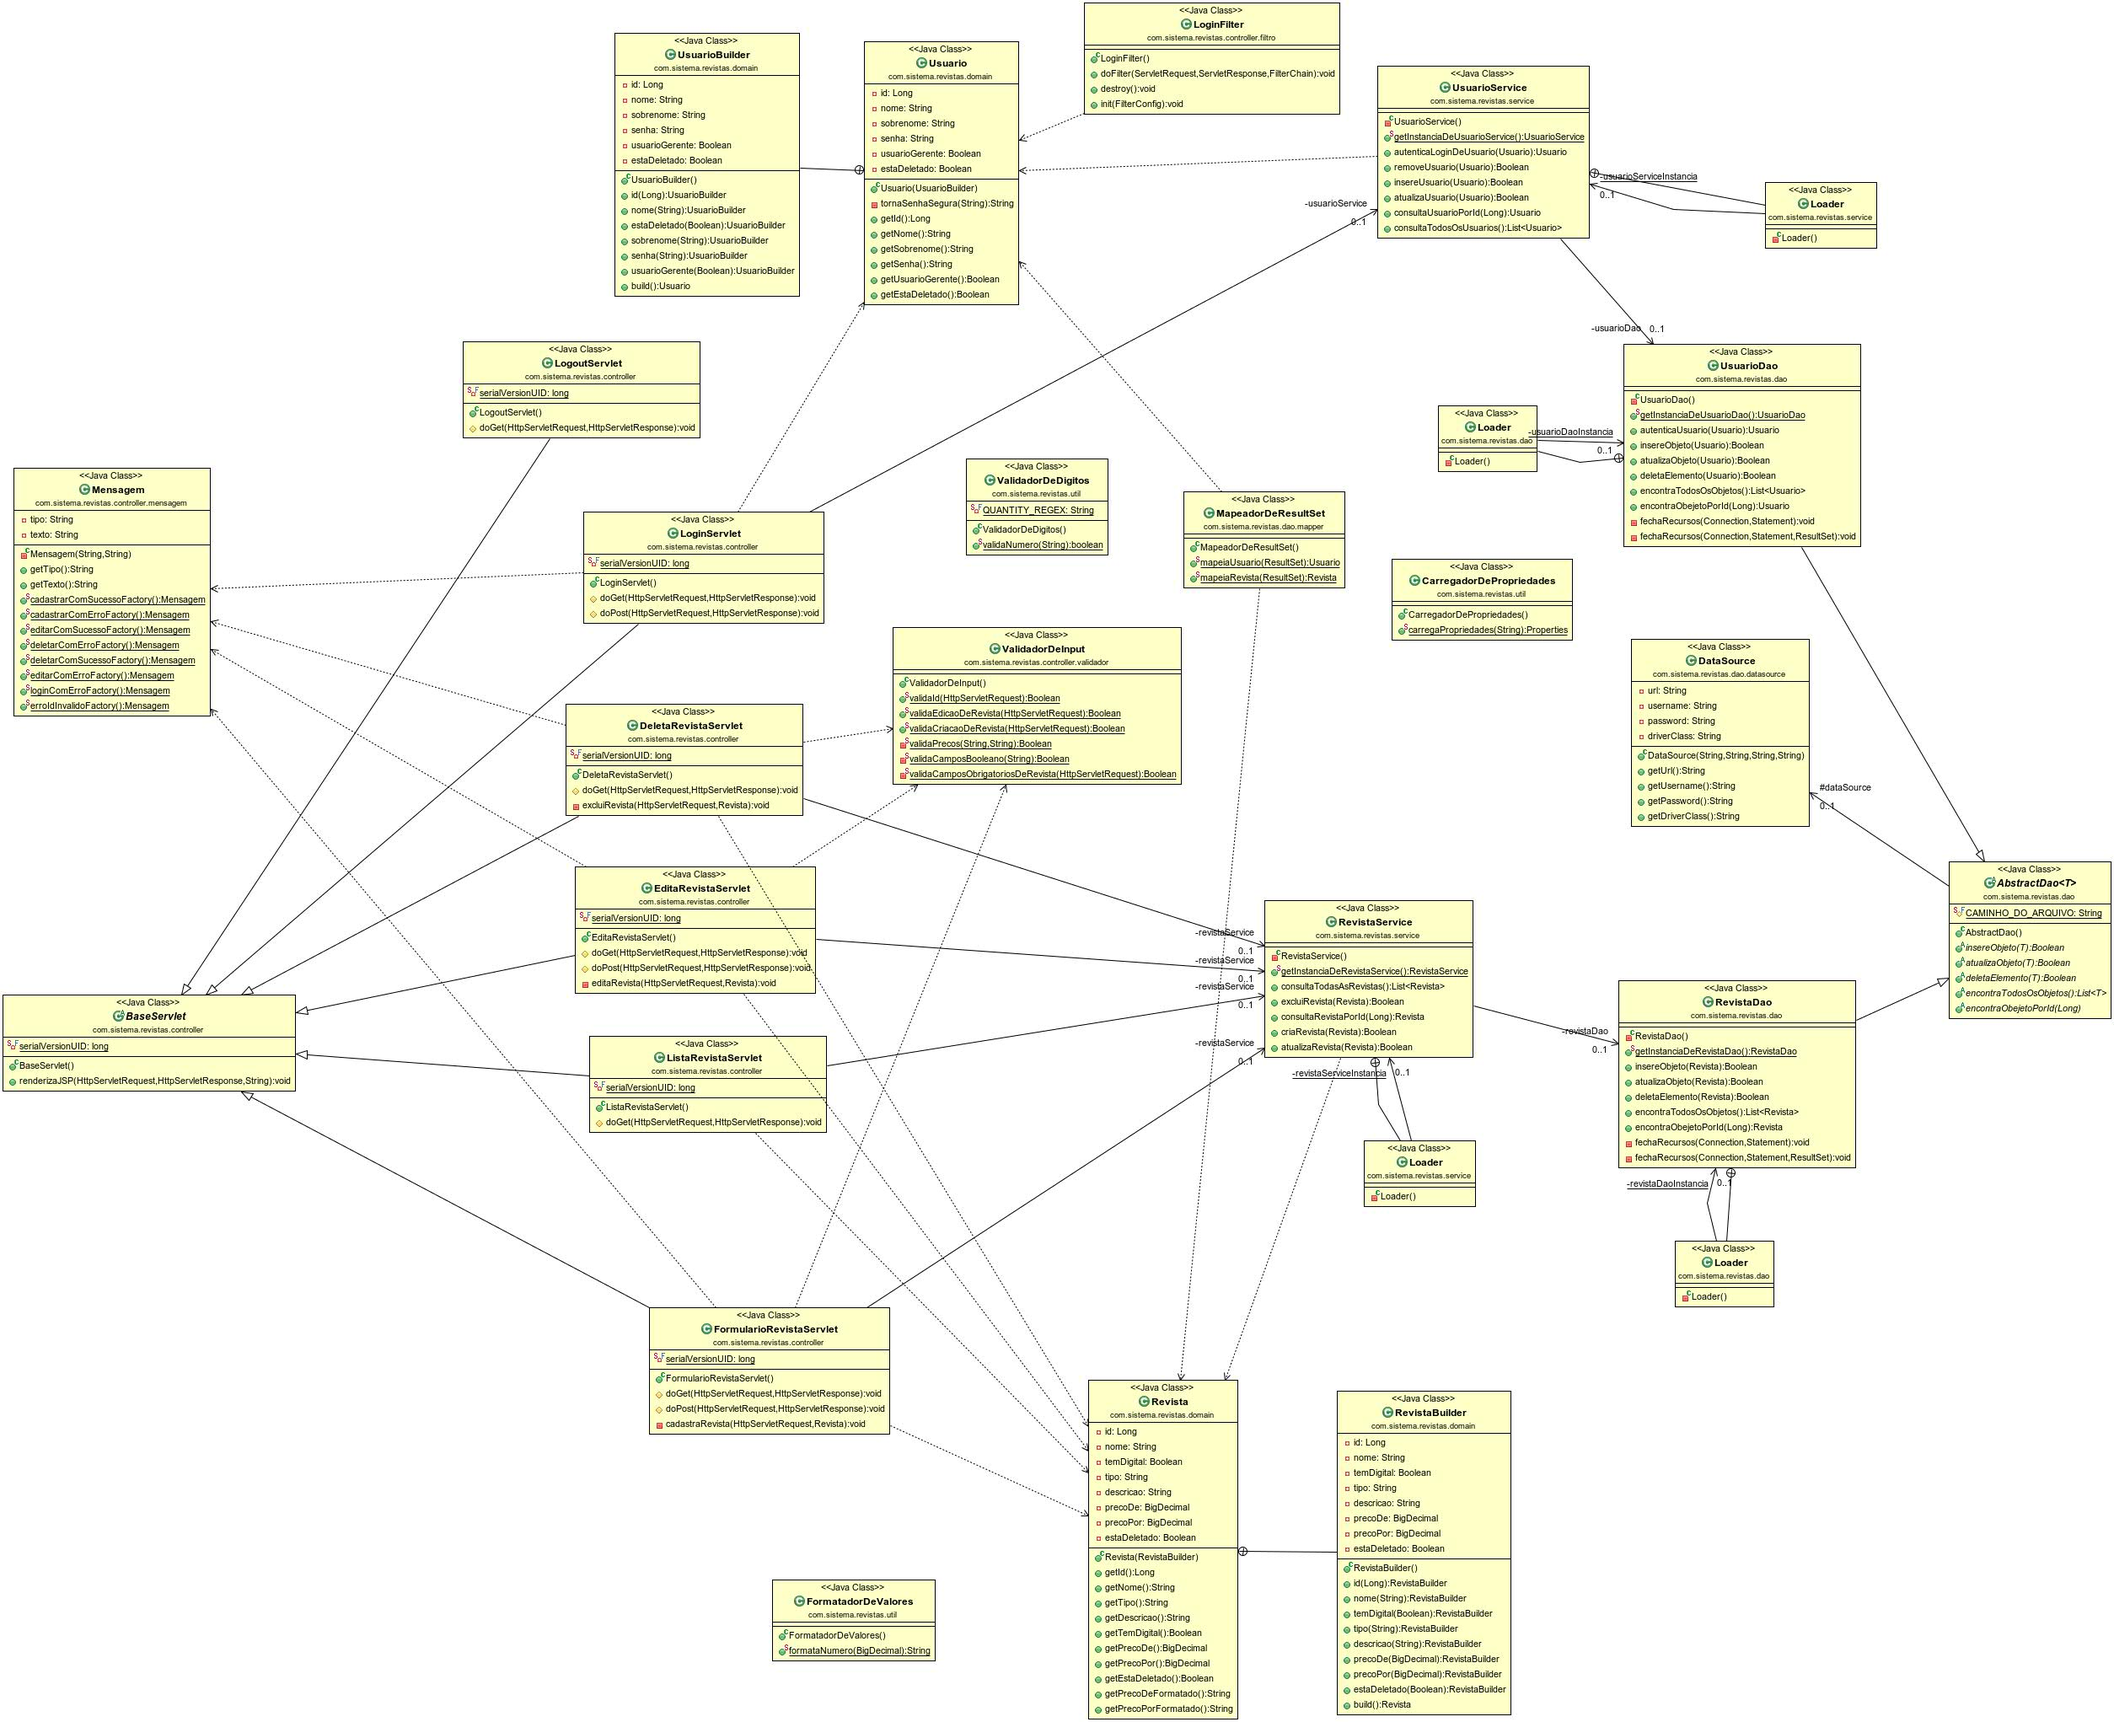
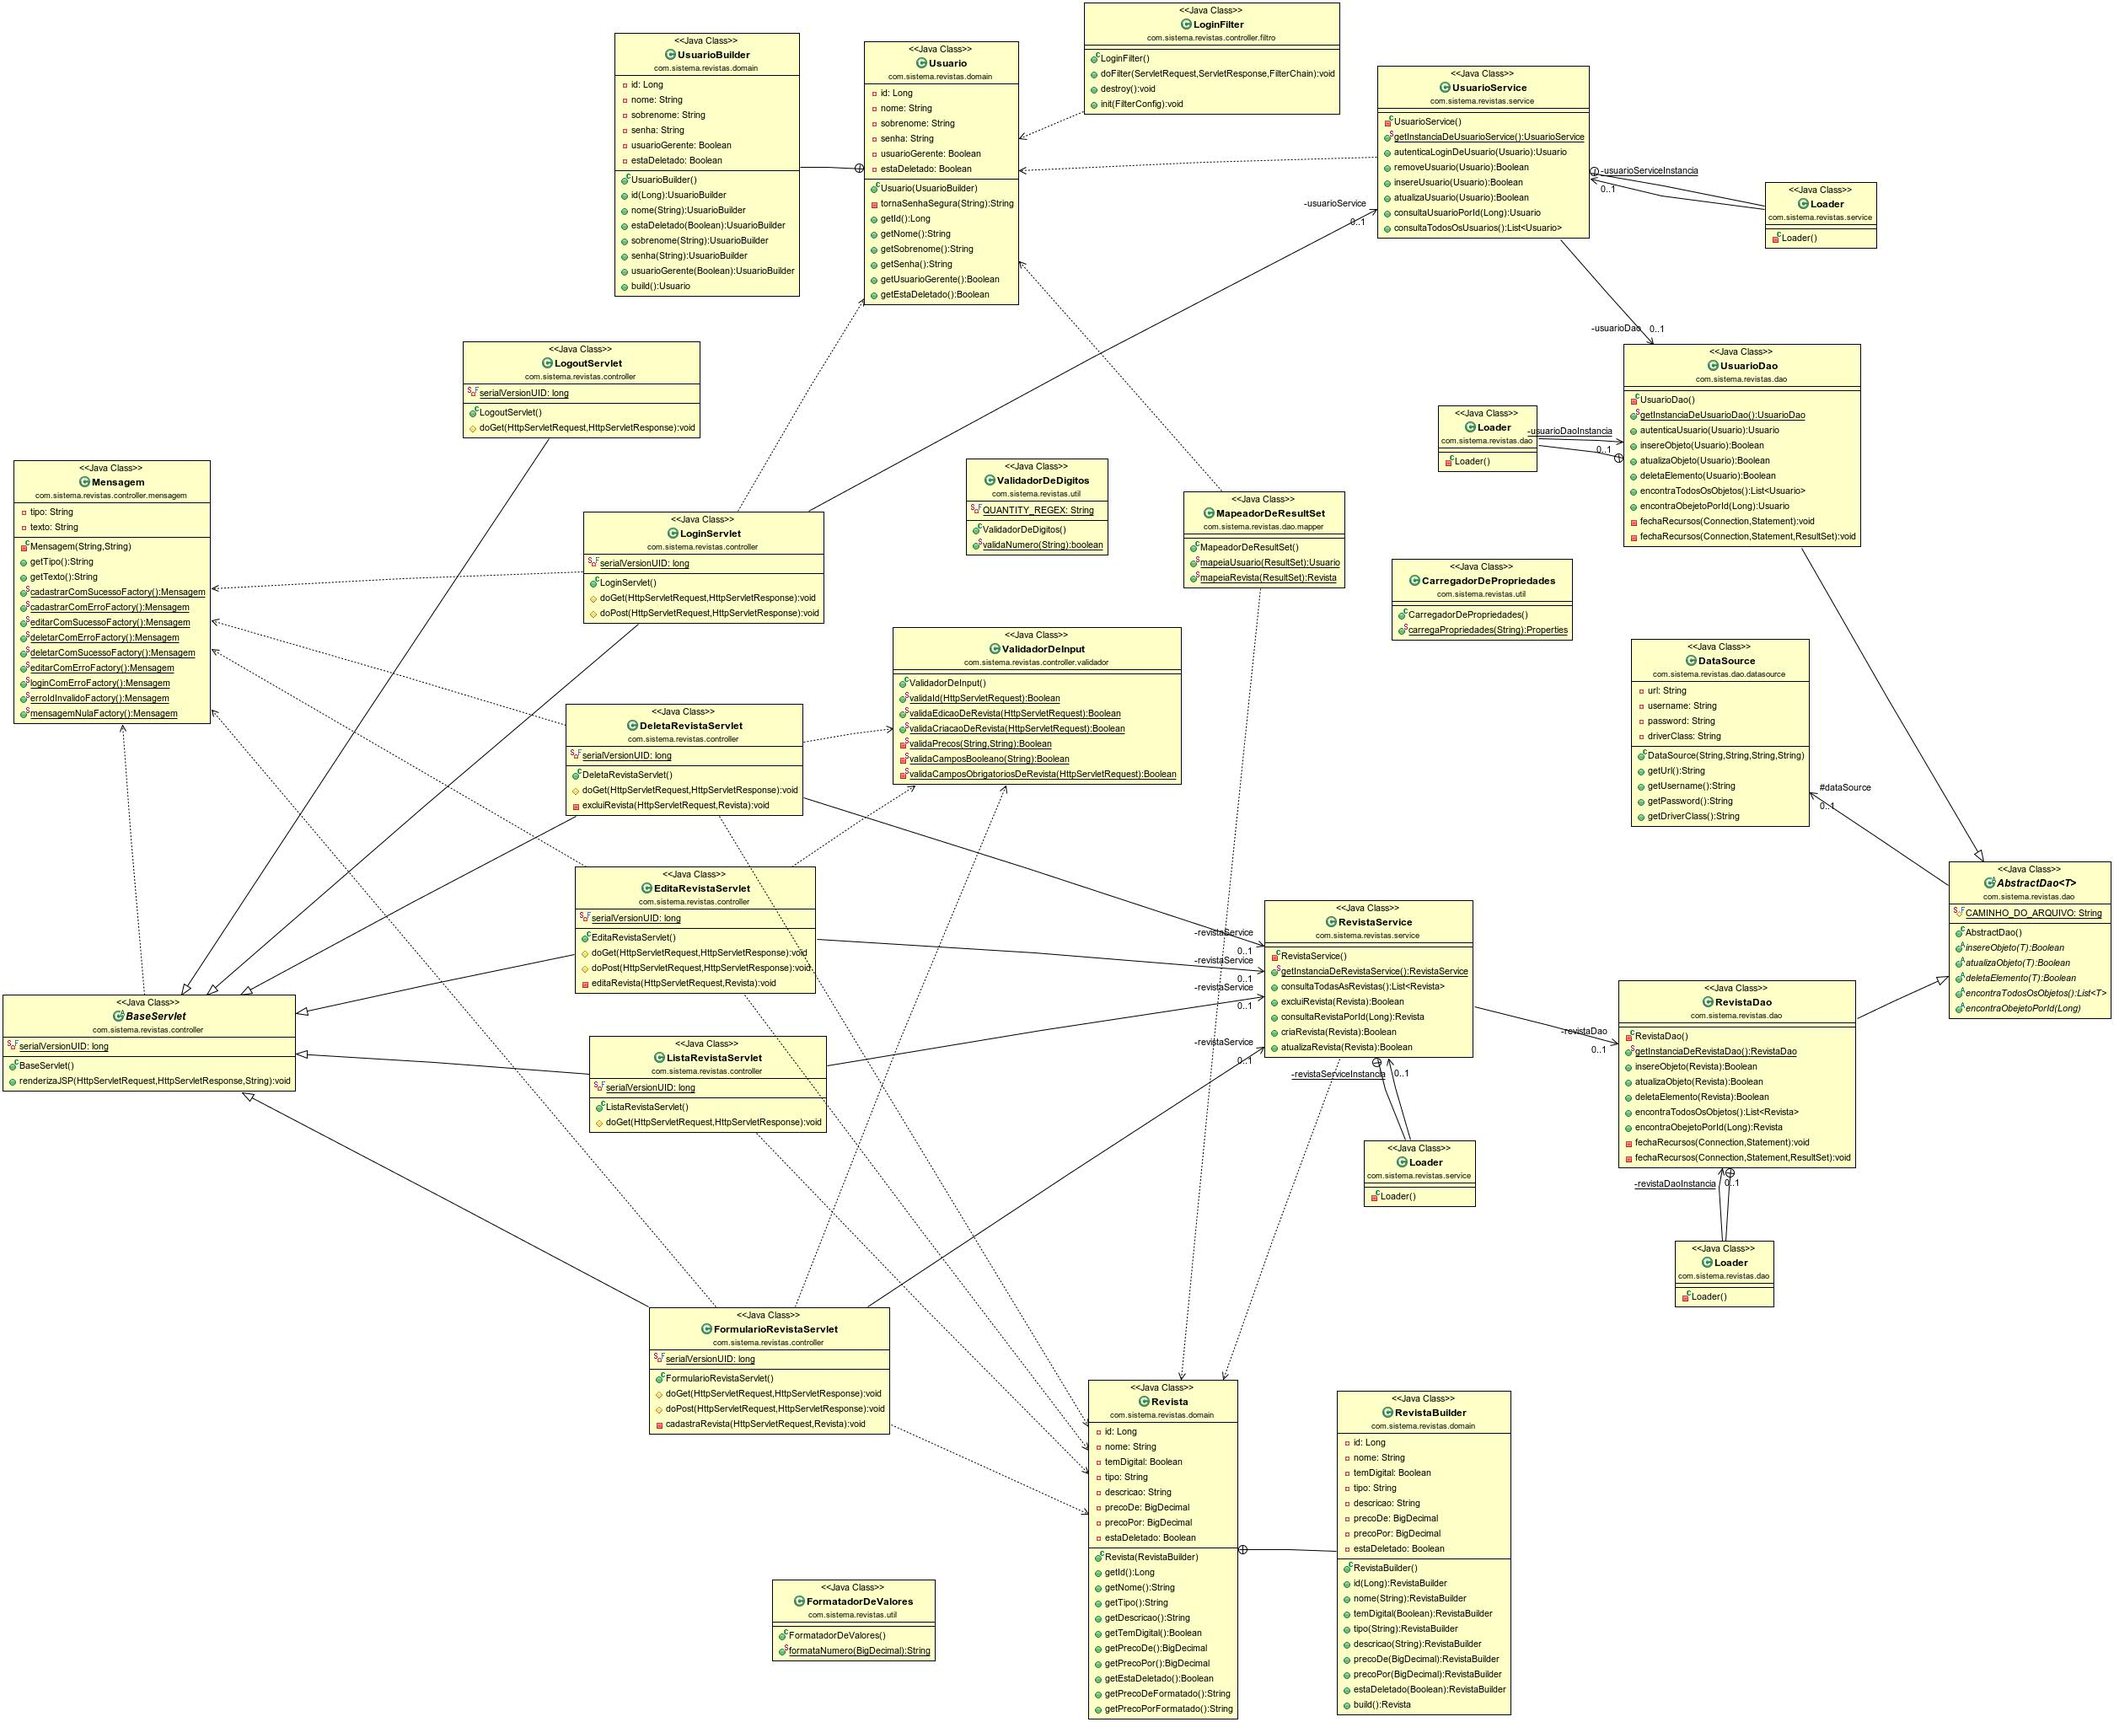
Refatoração na classe LoginFilter e no diagrama.

diff --git a/ES1Project/src/main/java/com/sistema/revistas/controller/BaseServlet.java b/ES1Project/src/main/java/com/sistema/revistas/controller/BaseServlet.java
@@ -4,6 +4,7 @@ import java.io.IOException;
 import javax.servlet.http.HttpServlet;
 import javax.servlet.http.HttpServletRequest;
 import javax.servlet.http.HttpServletResponse;
+import com.sistema.revistas.controller.mensagem.Mensagem;
 
 public abstract class BaseServlet extends HttpServlet {
 
@@ -11,7 +12,7 @@ public abstract class BaseServlet extends HttpServlet {
 
 	public void renderizaJSP(HttpServletRequest request, HttpServletResponse response, String urlPagina) throws IOException {
 		if (request.getParameter("mensagem") == null) {
-			request.getSession().setAttribute("mensagem", null);
+			request.getSession().setAttribute("mensagem", Mensagem.mensagemNulaFactory());
 		}
 		
 		response.sendRedirect(urlPagina);

diff --git a/ES1Project/src/main/java/com/sistema/revistas/controller/mensagem/Mensagem.java b/ES1Project/src/main/java/com/sistema/revistas/controller/mensagem/Mensagem.java
@@ -49,5 +49,9 @@ public class Mensagem {
 	public static Mensagem erroIdInvalidoFactory() {
 		return new Mensagem("mensagemErro", "Id de revista inválido.");
 	}
+	
+	public static Mensagem mensagemNulaFactory() {
+		return null;
+	}
 
 }
